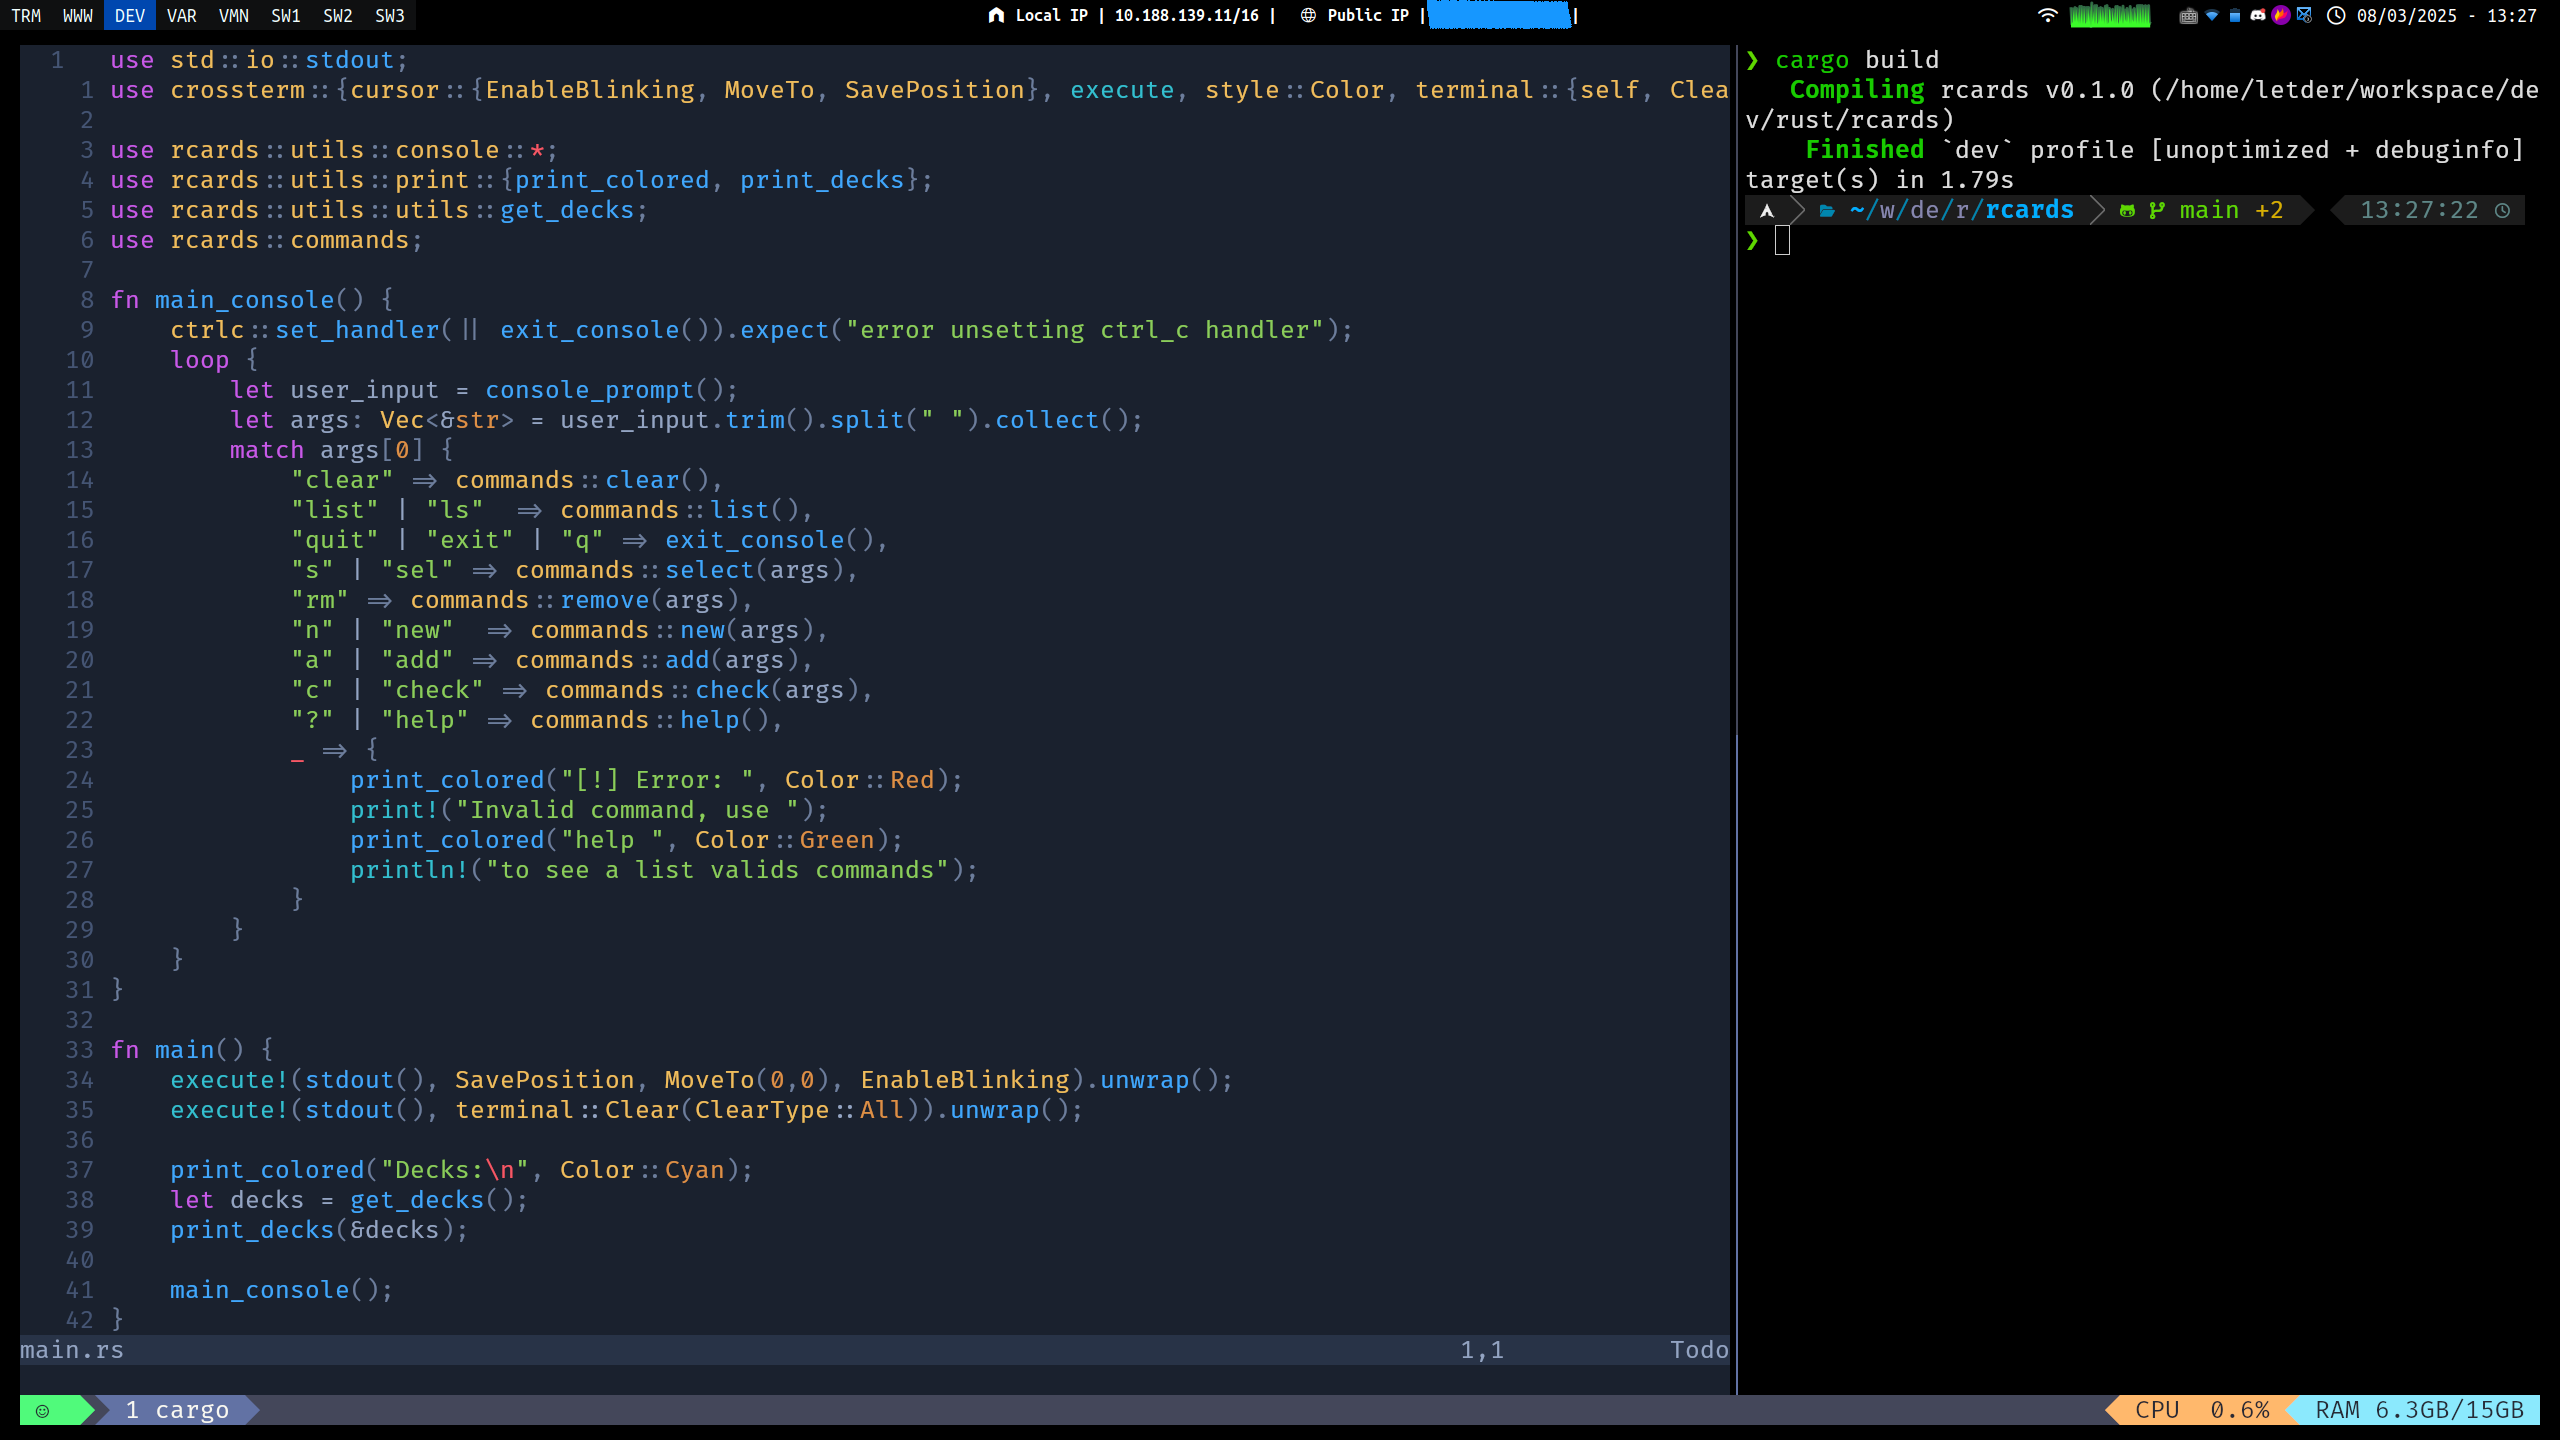
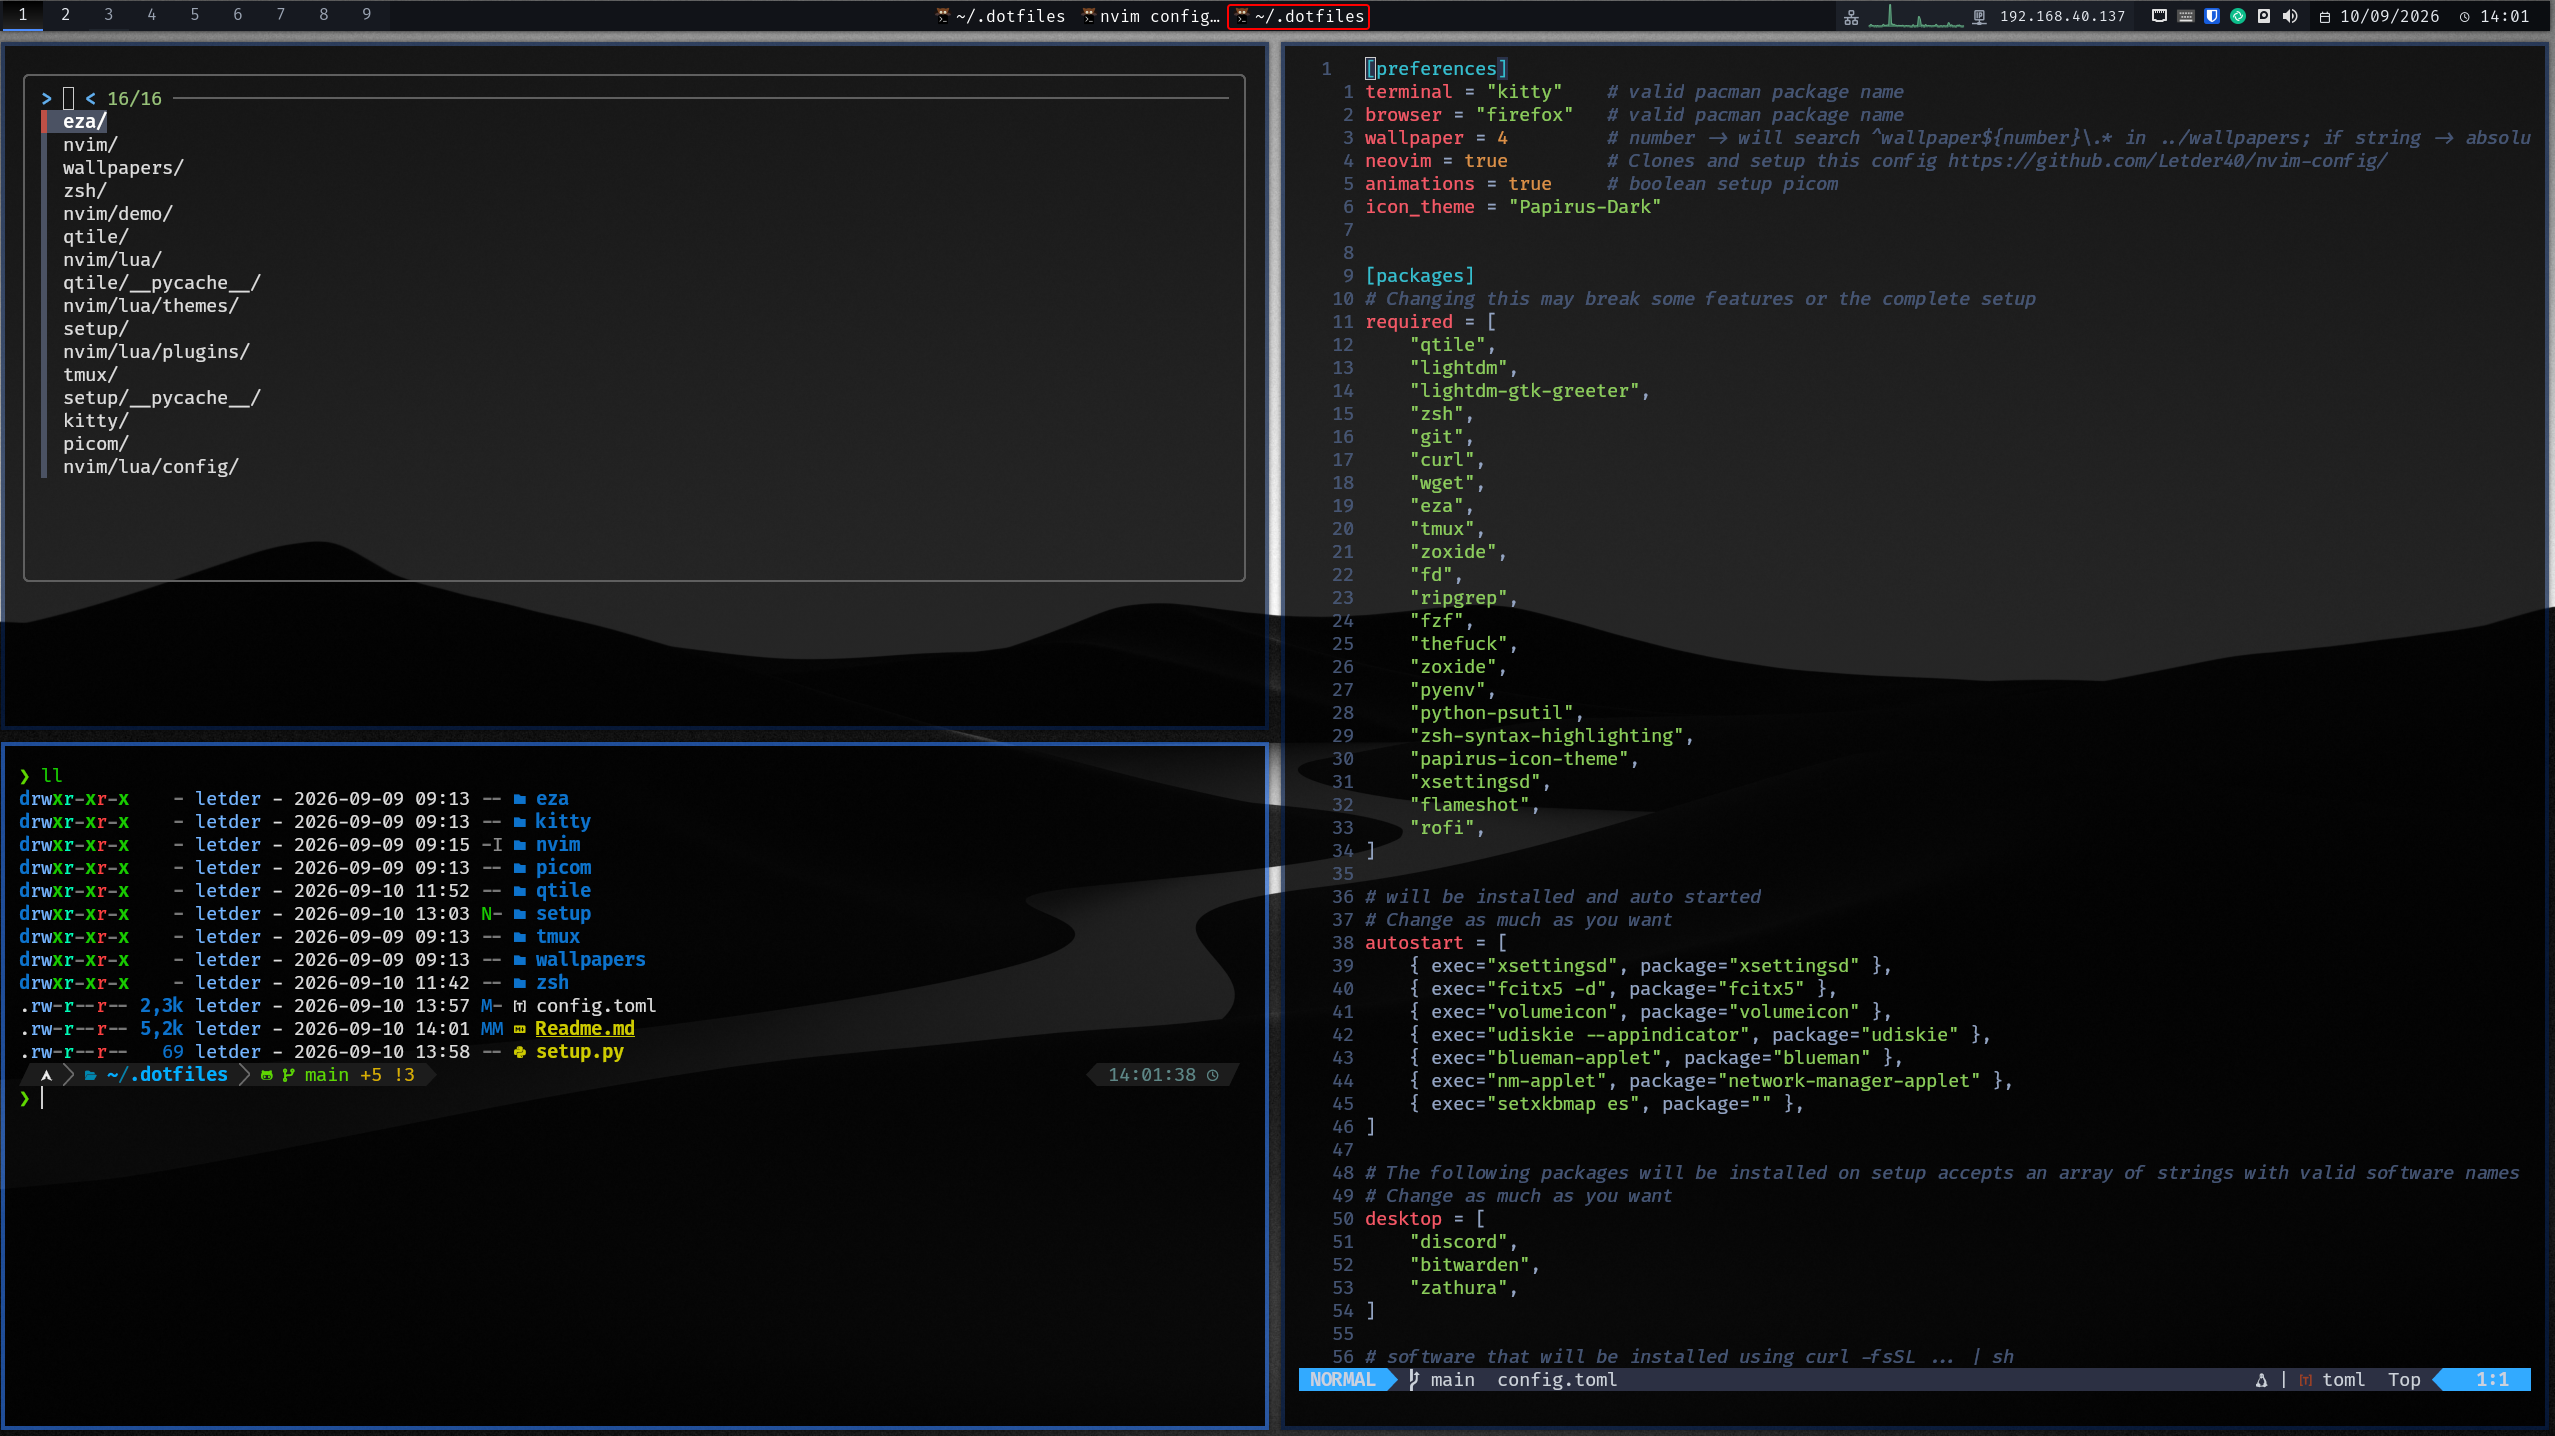
update readme

diff --git a/README.md b/README.md
@@ -1,20 +1,29 @@
 # Letder's Neovim config
+
 My custom neovim config
 
-## Features 
+# Features
 
-**Some features**:
-+ mason
-+ telescope
-+ treesitter
-+ cmp
-+ zen
-+ better-diagnostic
-+ harpoon
-+ onedark
+## Main plugins
 
-## Demo
-**I use a custom tmux keybind for the terminal on the right side, check [dotfiles](https://github.com/Letder40/Dotfiles)**
+- plugin mannager: lazy
+
+- lsp
+  - mannager: mason
+  - cmp: blink
+
+- file explorer
+  - telescope (navigation)
+  - oil (in-buffer file mannager)
+
+- colorscheme: onedark
+
+## other plugins:
+
+- better-diagnostic
+- harpoon
+- zen
+
 ![demo1](demo/demo.png)
 
-![demo2](demo/demo2.png)
+checkout [my dotfiles](https://github.com/Letder40/Dotfiles) if you want to try my optimized workflow with one command
